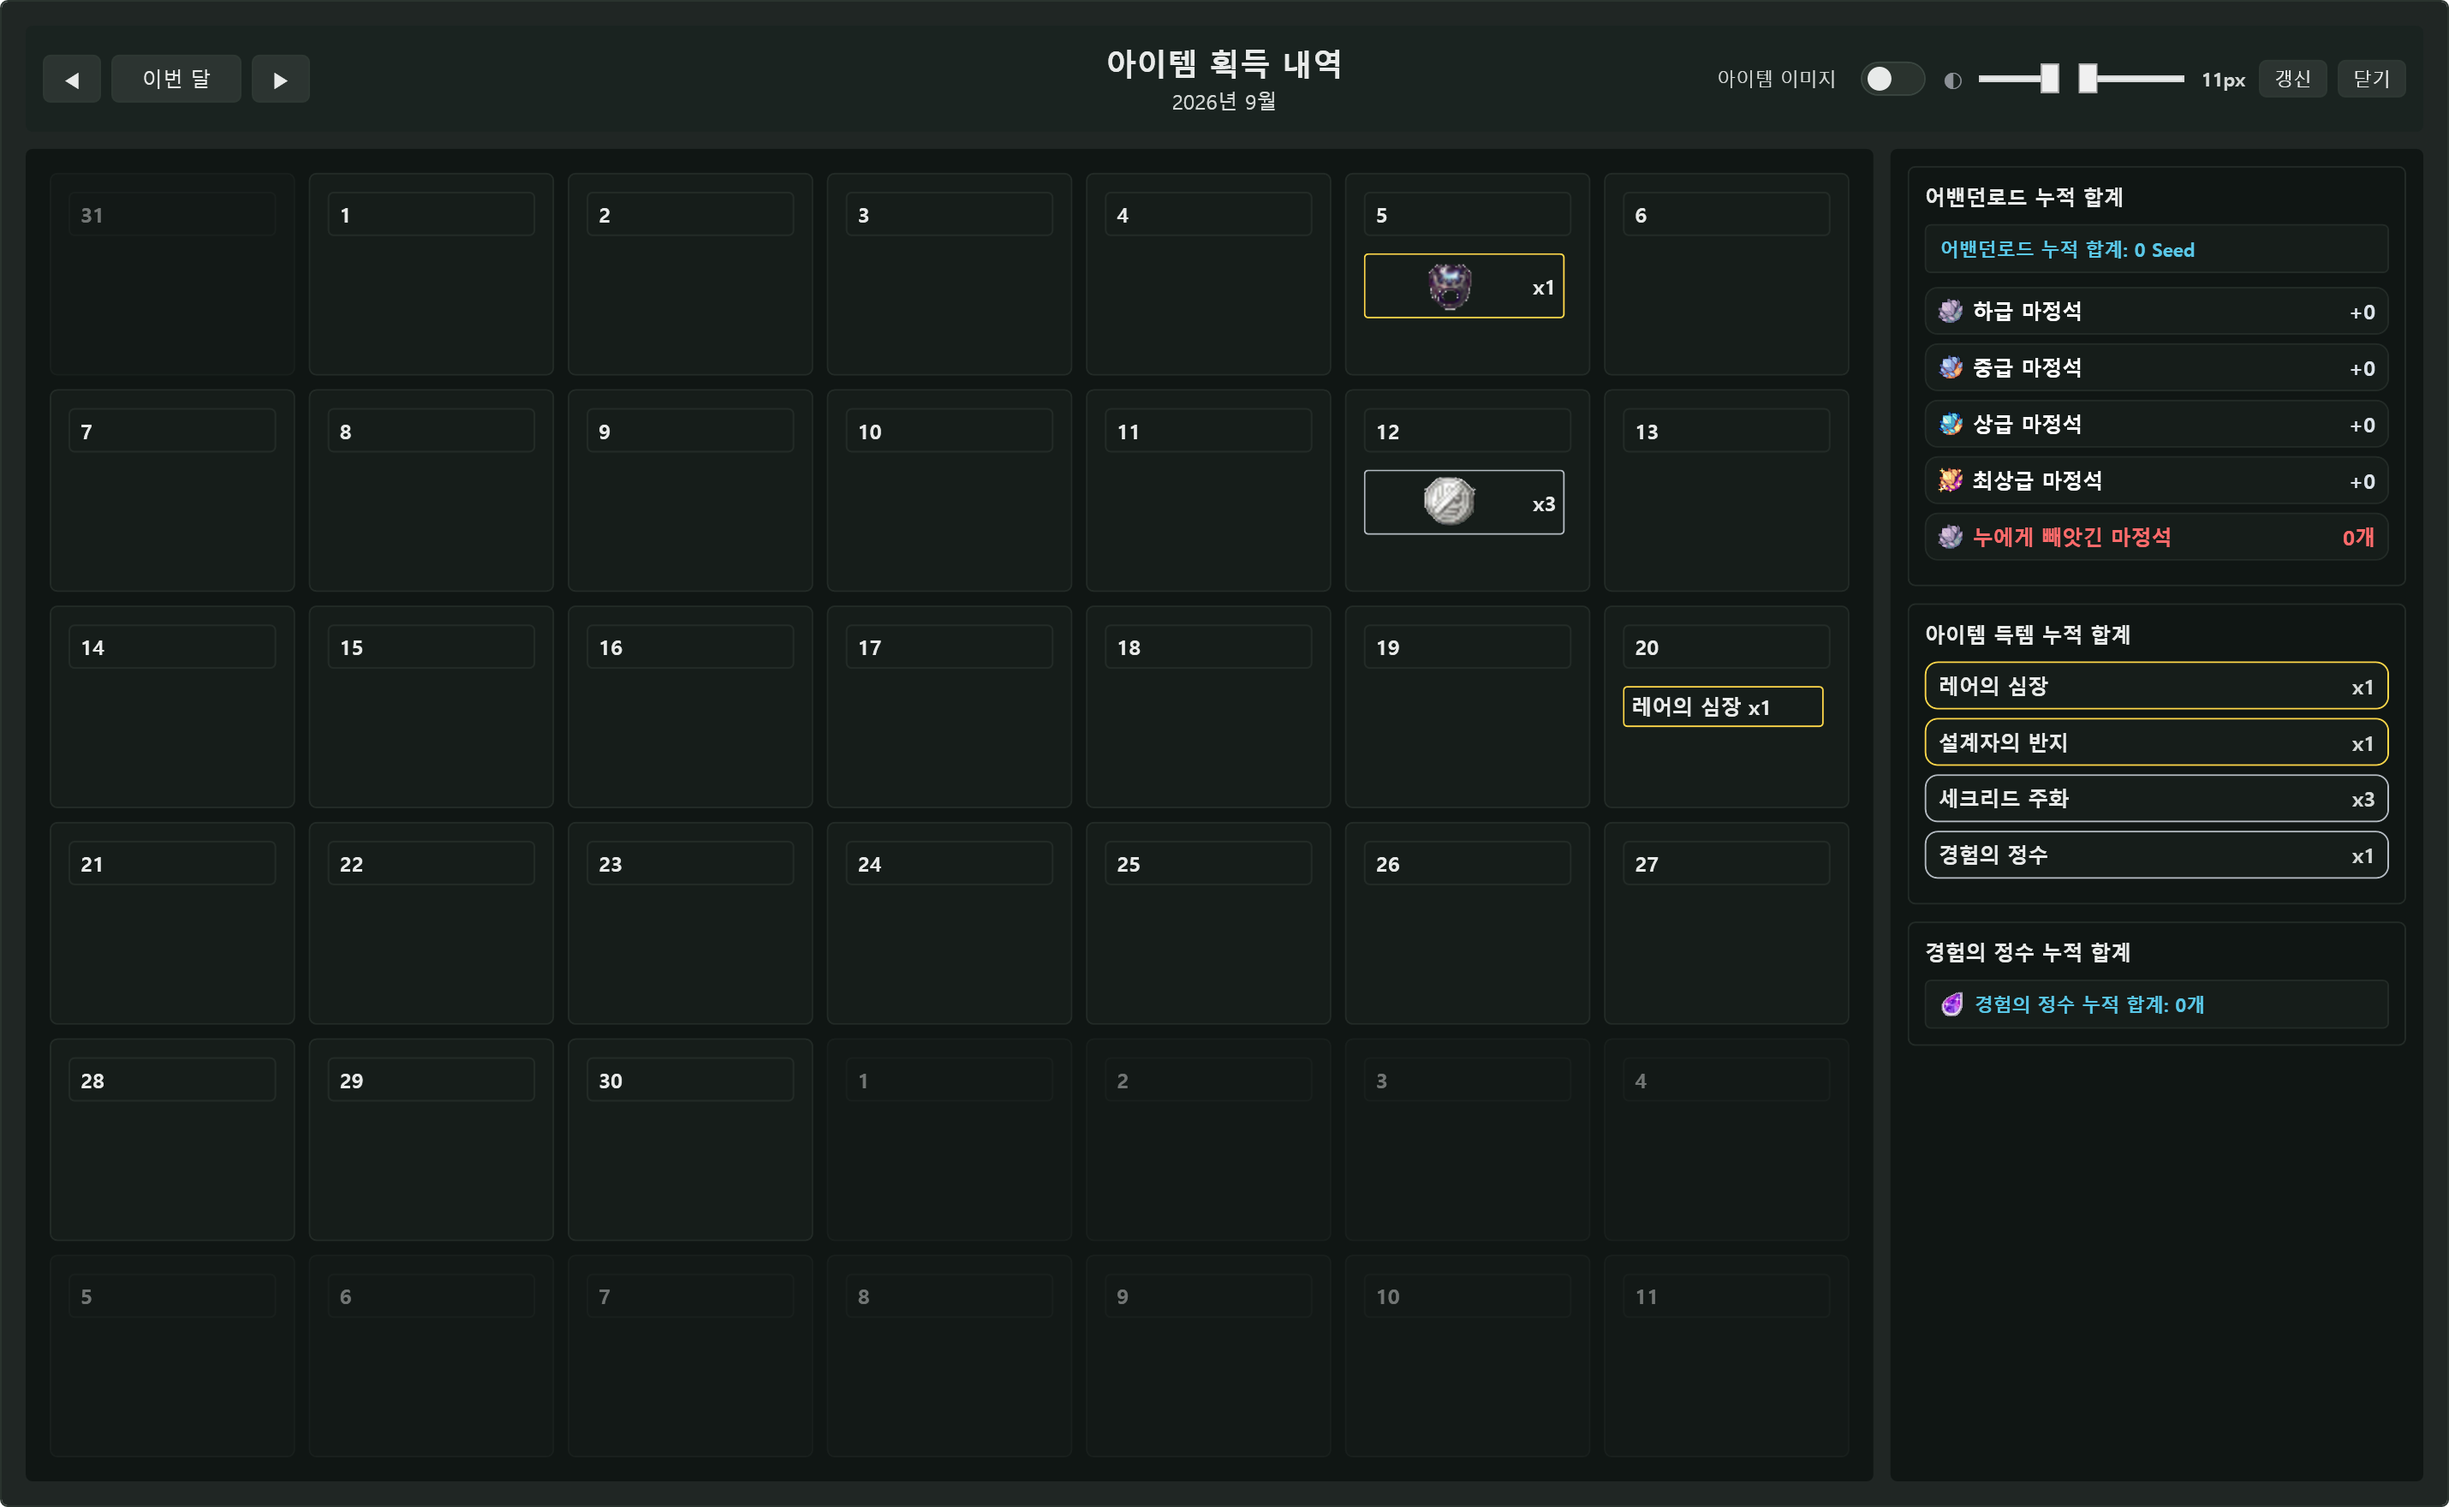
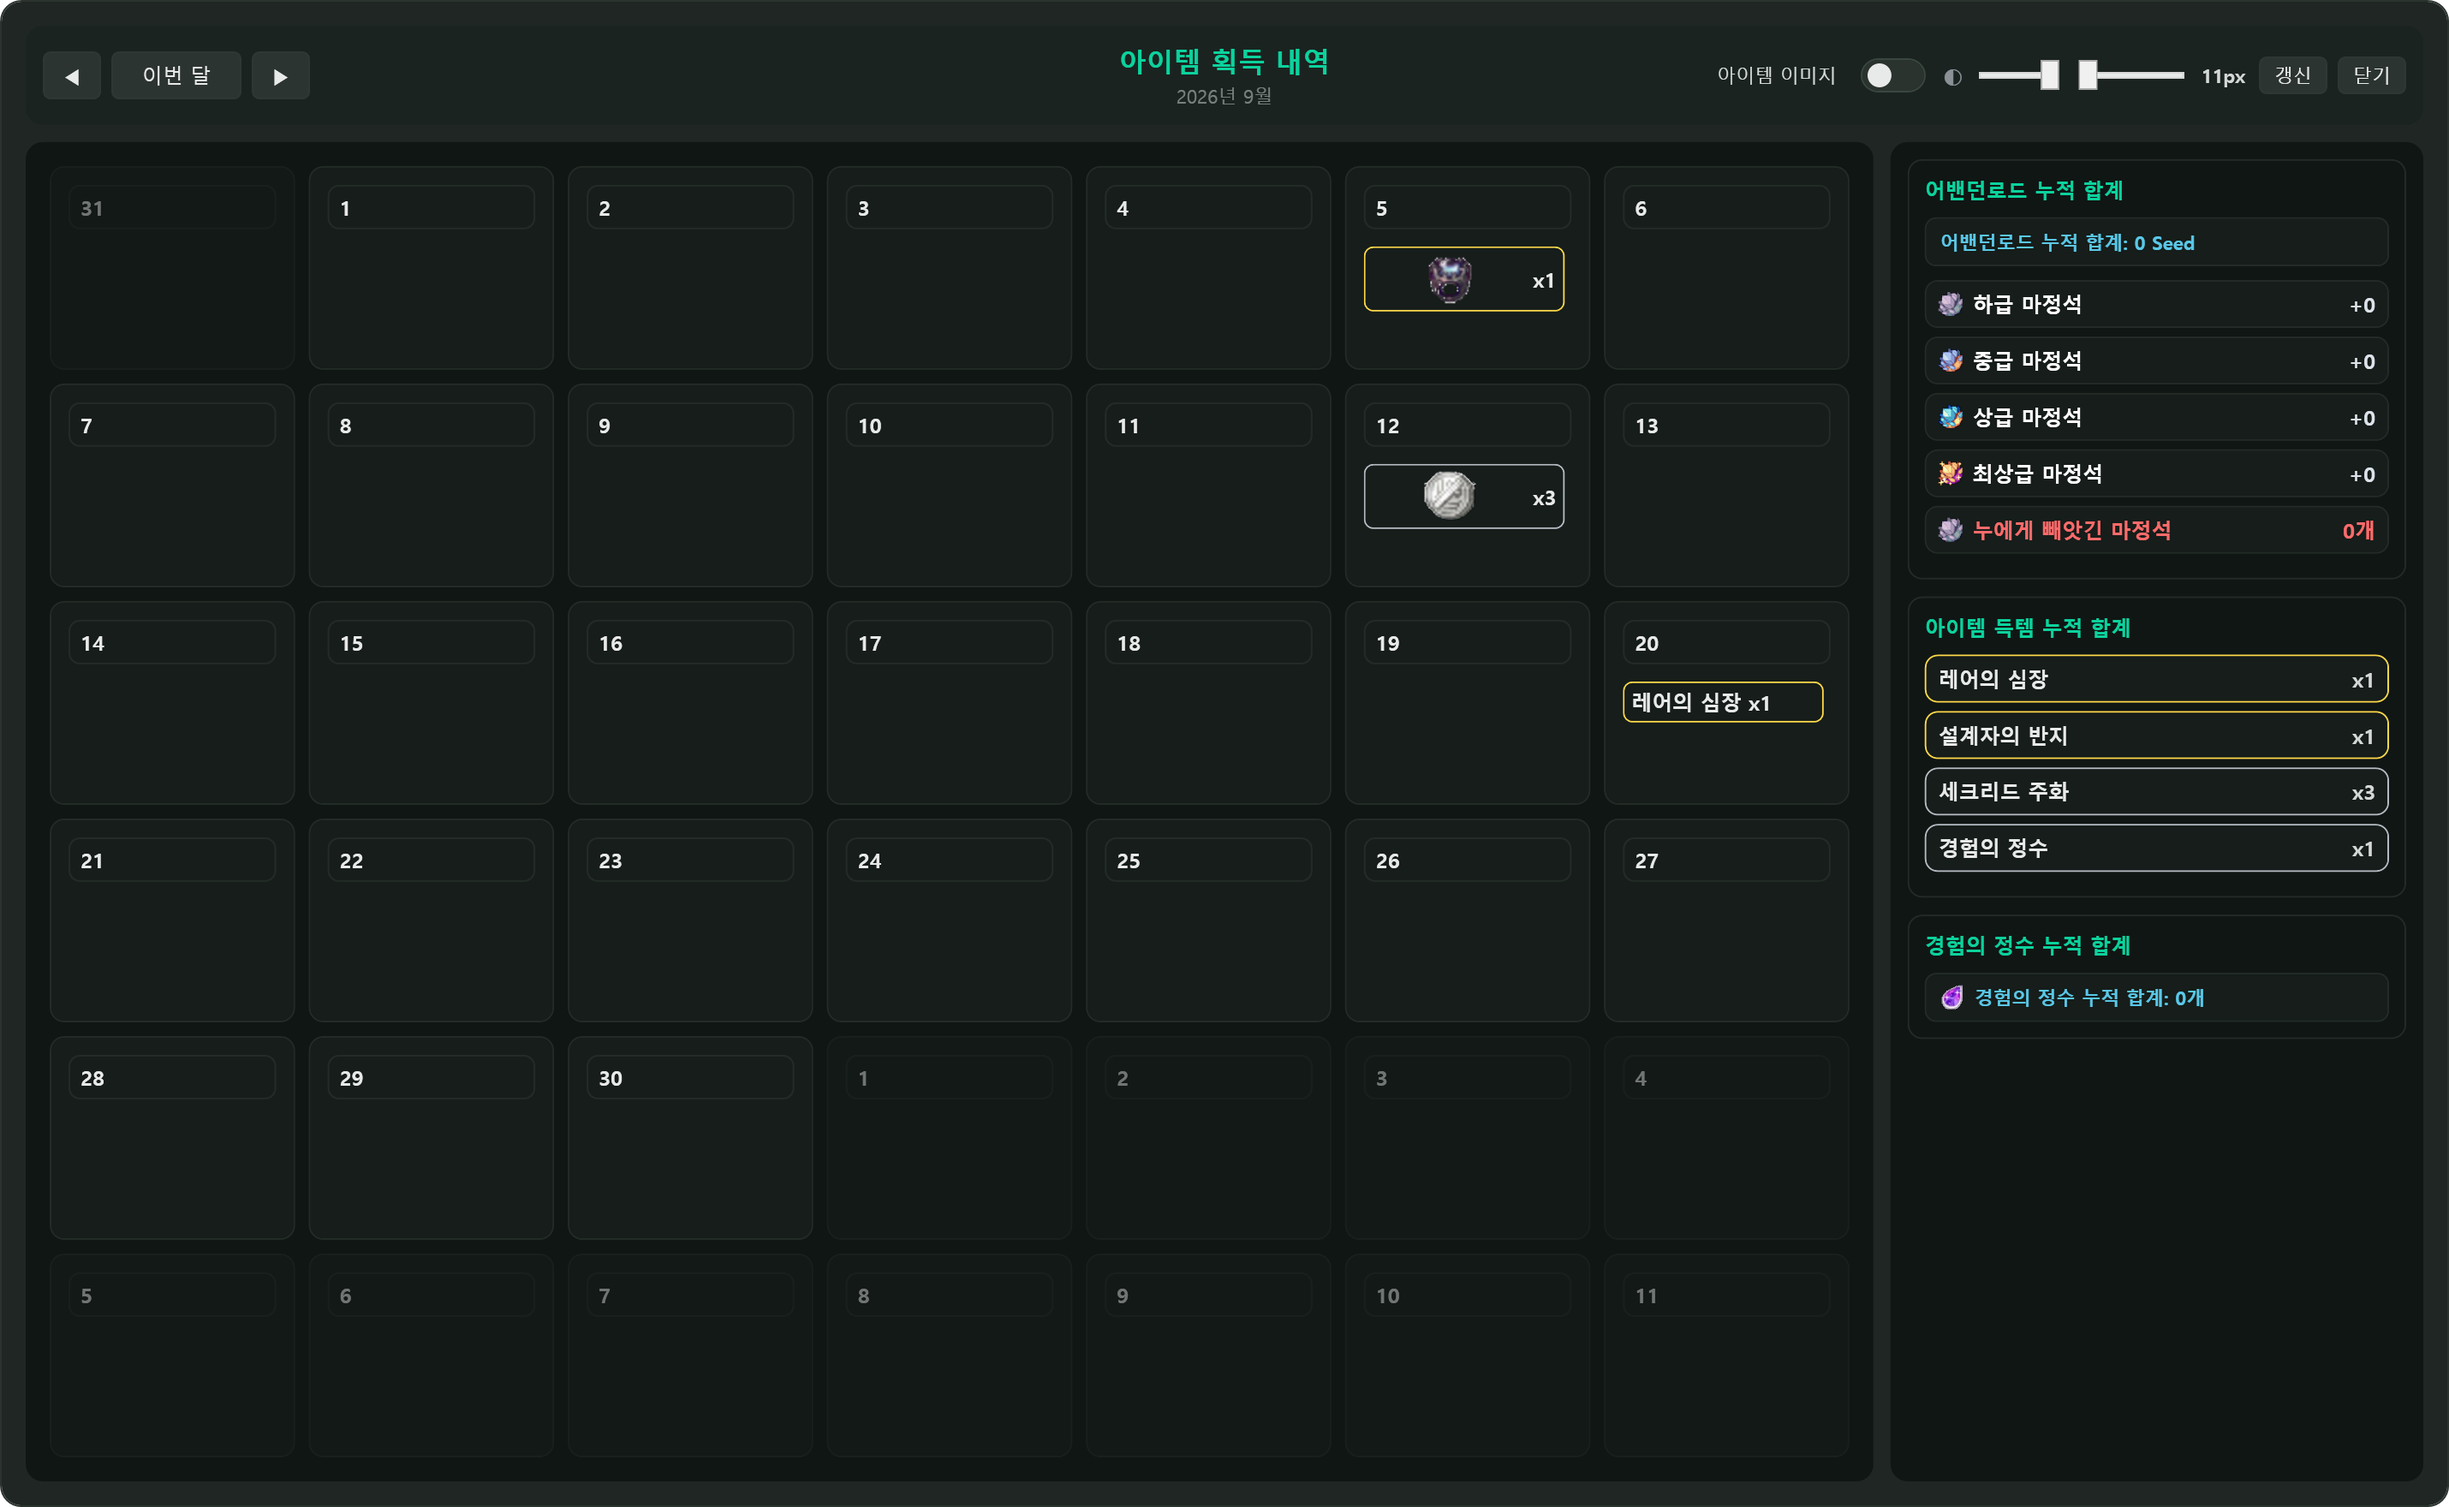
feat: 달력(아이템 획득 내역) 스타일을 통계 창들과 통일
- 둥근 모서리 통일: 창 12px, 헤더·패널 10px, 날짜 칸 8px, 칩/배지 5~6px
- 제목을 민트 강조색 16px SemiBold, 부제목 11px 힌트색으로 변경
- X 버튼을 닫기 버튼(SecondaryButtonStyle)으로 교체, 우측 요약 섹션 제목도 강조색 적용
- README 달력 이미지 재생성

diff --git a/Views/Overlays/ItemCalendarWindow.xaml b/Views/Overlays/ItemCalendarWindow.xaml
@@ -32,7 +32,7 @@
     <Border Background="{DynamicResource OverlayWindowBackgroundBrush}"
             BorderBrush="{DynamicResource OverlayWindowBorderBrush}"
             BorderThickness="1"
-            CornerRadius="4"
+            CornerRadius="12"
             Padding="14">
         <Grid>
             <Grid.RowDefinitions>
@@ -41,7 +41,7 @@
             </Grid.RowDefinitions>
 
             <Border Background="{DynamicResource OverlaySurfaceAltBackgroundBrush}"
-                    CornerRadius="4"
+                    CornerRadius="10"
                     Padding="10"
                     MouseLeftButtonDown="TitleBar_MouseLeftButtonDown">
                 <Grid>
@@ -109,21 +109,26 @@
                                 FontSize="11"
                                 Style="{DynamicResource SecondaryButtonStyle}"
                                 Click="Refresh_Click"/>
-                        <Button Content="X"
-                                Style="{StaticResource WindowCloseButtonStyle}"
+                        <Button Content="닫기"
+                                Height="22"
+                                MinWidth="40"
+                                Padding="8,0"
+                                FontSize="11"
+                                Cursor="Hand"
+                                Style="{DynamicResource SecondaryButtonStyle}"
                                 Click="Close_Click"/>
                     </StackPanel>
 
                     <StackPanel HorizontalAlignment="Center"
                                 VerticalAlignment="Center">
                         <TextBlock Text="아이템 획득 내역"
-                                   Foreground="{DynamicResource TextBrush}"
-                                   FontSize="18"
-                                   FontWeight="Bold"
+                                   Foreground="{DynamicResource OverlayTitleAccentTextBrush}"
+                                   FontSize="16"
+                                   FontWeight="SemiBold"
                                    HorizontalAlignment="Center"/>
                         <TextBlock Text="{Binding MonthText}"
-                                   Foreground="{DynamicResource OverlayInfoTextBrush}"
-                                   FontSize="12"
+                                   Foreground="{DynamicResource OverlayHintTextBrush}"
+                                   FontSize="11"
                                    HorizontalAlignment="Center"
                                    Margin="0,2,0,0"/>
                     </StackPanel>
@@ -138,7 +143,7 @@
 
                 <Border Grid.Column="0"
                         Background="{DynamicResource OverlayShellBackgroundBrush}"
-                        CornerRadius="4"
+                        CornerRadius="10"
                         Padding="10"
                         Margin="0,0,10,0">
                     <Grid>
@@ -152,7 +157,7 @@
                                 <DataTemplate>
                                     <Border Margin="4"
                                             Padding="10"
-                                            CornerRadius="4"
+                                            CornerRadius="8"
                                             BorderThickness="1"
                                             BorderBrush="{DynamicResource OverlayCardBorderBrush}"
                                             Background="{DynamicResource OverlayCardBackgroundBrush}"
@@ -166,7 +171,7 @@
                                             <Border Background="Transparent"
                                                     BorderBrush="{DynamicResource OverlayCardBorderBrush}"
                                                     BorderThickness="1"
-                                                    CornerRadius="3"
+                                                    CornerRadius="6"
                                                     Padding="6,4">
                                                 <TextBlock Text="{Binding DateLabel}"
                                                            Foreground="{DynamicResource TextBrush}"
@@ -214,7 +219,7 @@
                                                             <Border Background="{DynamicResource OverlayCardBackgroundBrush}"
                                                                     BorderBrush="{Binding BorderBrush}"
                                                                     BorderThickness="1"
-                                                                    CornerRadius="2"
+                                                                    CornerRadius="5"
                                                                     Padding="4,3"
                                                                     Margin="0,0,4,4"
                                                                     ToolTip="{Binding DisplayText}">
@@ -341,7 +346,7 @@
                         </ItemsControl>
 
                         <Border Background="{DynamicResource OverlayLoadingMaskBrush}"
-                                CornerRadius="3"
+                                CornerRadius="8"
                                 Visibility="{Binding IsLoading, Converter={StaticResource BooleanToVisibilityConverter}}">
                             <StackPanel HorizontalAlignment="Center"
                                         VerticalAlignment="Center"
@@ -365,7 +370,7 @@
 
                 <Border Grid.Column="1"
                         Background="{DynamicResource OverlayShellBackgroundBrush}"
-                        CornerRadius="4"
+                        CornerRadius="10"
                         Padding="10">
                     <ScrollViewer VerticalScrollBarVisibility="Hidden"
                                   HorizontalScrollBarVisibility="Disabled"
@@ -374,12 +379,12 @@
                             <Border Background="{DynamicResource OverlaySurfaceBackgroundBrush}"
                                     BorderBrush="{DynamicResource OverlayCardBorderBrush}"
                                     BorderThickness="1"
-                                    CornerRadius="4"
+                                    CornerRadius="8"
                                     Padding="9"
                                     Margin="0,0,0,10">
                                 <StackPanel>
                                     <TextBlock Text="어밴던로드 누적 합계"
-                                               Foreground="{DynamicResource TextBrush}"
+                                               Foreground="{DynamicResource OverlayTitleAccentTextBrush}"
                                                FontSize="{Binding ItemCalendarFontSize, Converter={StaticResource AddValueConverter}, ConverterParameter=1}"
                                                FontWeight="SemiBold"
                                                Margin="0,0,0,8"/>
@@ -387,7 +392,7 @@
                                     <Border Background="{DynamicResource OverlayCardBackgroundBrush}"
                                             BorderBrush="{DynamicResource OverlayCardBorderBrush}"
                                             BorderThickness="1"
-                                            CornerRadius="3"
+                                            CornerRadius="6"
                                             Padding="8,6"
                                             Margin="0,0,0,8">
                                         <TextBlock Text="{Binding MonthlyAbandonSeedText}"
@@ -443,11 +448,11 @@
                             <Border Background="{DynamicResource OverlaySurfaceBackgroundBrush}"
                                     BorderBrush="{DynamicResource OverlayCardBorderBrush}"
                                     BorderThickness="1"
-                                    CornerRadius="4"
+                                    CornerRadius="8"
                                     Padding="9">
                                 <StackPanel>
                                     <TextBlock Text="아이템 득템 누적 합계"
-                                               Foreground="{DynamicResource TextBrush}"
+                                               Foreground="{DynamicResource OverlayTitleAccentTextBrush}"
                                                FontSize="{Binding ItemCalendarFontSize, Converter={StaticResource AddValueConverter}, ConverterParameter=1}"
                                                FontWeight="SemiBold"
                                                Margin="0,0,0,8"/>
@@ -490,12 +495,12 @@
                             <Border Background="{DynamicResource OverlaySurfaceBackgroundBrush}"
                                     BorderBrush="{DynamicResource OverlayCardBorderBrush}"
                                     BorderThickness="1"
-                                    CornerRadius="4"
+                                    CornerRadius="8"
                                     Padding="9"
                                     Margin="0,10,0,0">
                                 <StackPanel>
                                     <TextBlock Text="경험의 정수 누적 합계"
-                                               Foreground="{DynamicResource TextBrush}"
+                                               Foreground="{DynamicResource OverlayTitleAccentTextBrush}"
                                                FontSize="{Binding ItemCalendarFontSize, Converter={StaticResource AddValueConverter}, ConverterParameter=1}"
                                                FontWeight="SemiBold"
                                                Margin="0,0,0,8"/>
@@ -503,7 +508,7 @@
                                     <Border Background="{DynamicResource OverlayCardBackgroundBrush}"
                                             BorderBrush="{DynamicResource OverlayCardBorderBrush}"
                                             BorderThickness="1"
-                                            CornerRadius="3"
+                                            CornerRadius="6"
                                             Padding="8,6">
                                         <DockPanel LastChildFill="True">
                                             <StackPanel Orientation="Horizontal"
